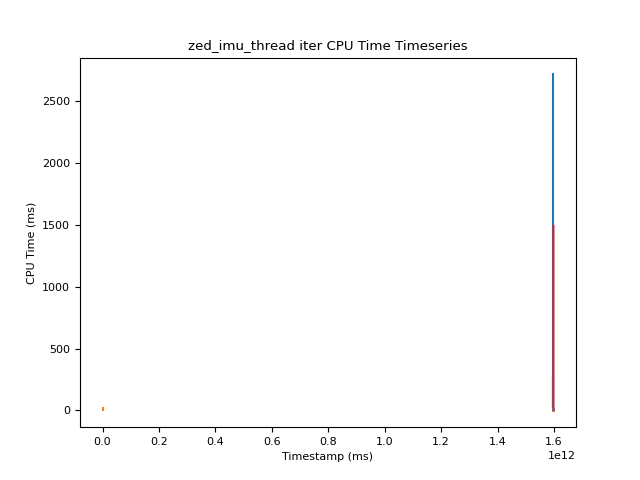
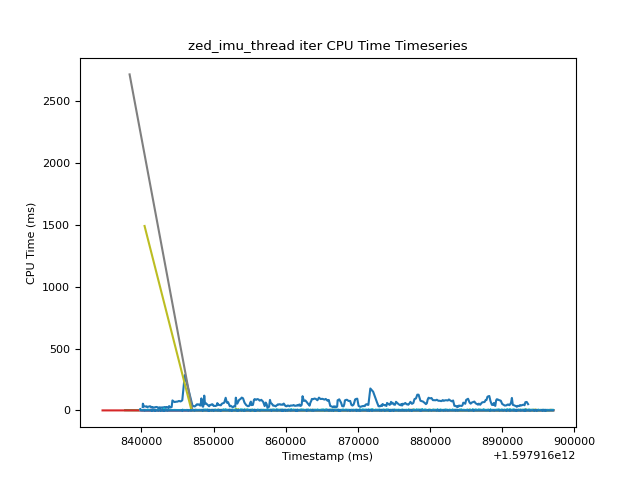
ignoring gpu and opencv for timeseries graphs

diff --git a/analysis/main.py b/analysis/main.py
@@ -547,7 +547,11 @@ with (output_path / "account_summaries.md").open("w") as f:
     plt.rcParams.update({'font.size': 8})
     # plot the same data on both axes
     ax = f.gca()
+    ignore_list = ['app_gpu1', 'app_gpu2', 'timewarp_gl gpu', 'hologram', 'opencv']
     for i, account_name in enumerate(account_names):
+        if account_name in ignore_list:
+            print("ingoring")
+            continue
         ax.plot(ts.loc[account_name, "wall_time_start"], ts.loc[account_name, "cpu_time_duration"])
         ax.set_title(f"{account_name} CPU Time Timeseries")
         ax.set(ylabel='CPU Time (ms)')
@@ -560,6 +564,9 @@ with (output_path / "account_summaries.md").open("w") as f:
     ts_dir = output_path / "ts"
     ts_dir.mkdir()
     for i, account_name in enumerate(account_names):
+        if account_name in ignore_list:
+            print("ingoring")
+            continue
         f = plt.figure()
         f.tight_layout(pad=2.0)
         plt.rcParams.update({'font.size': 8})
